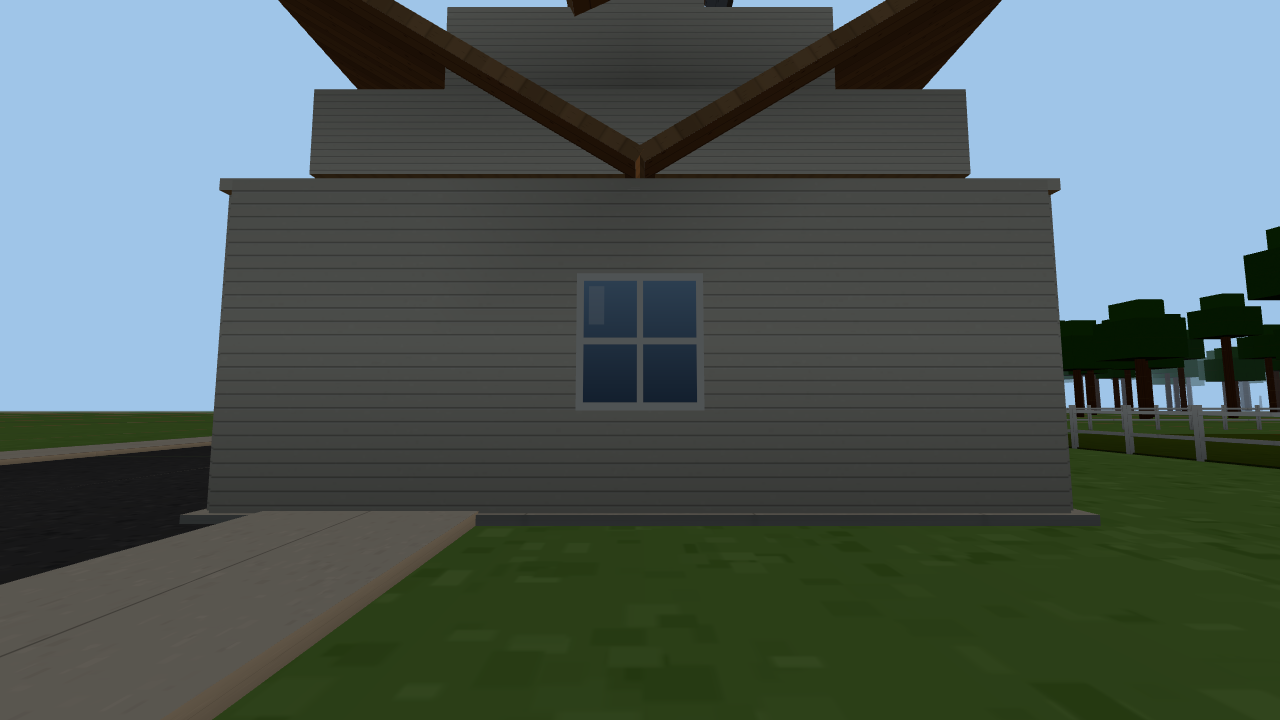
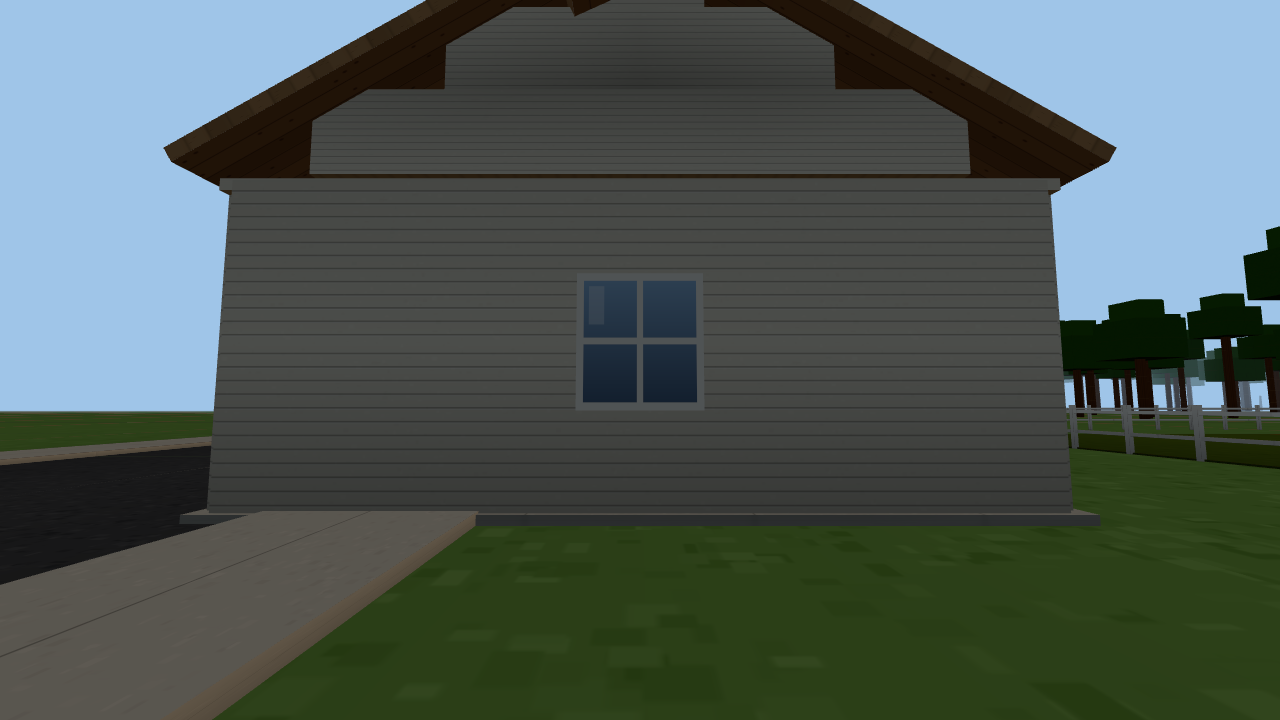
fix: pitch gable roof slabs toward the ridge, not away from it

Changed region(s): [[0.125, 0.0, 0.875, 0.275]]

diff --git a/src/builders.ts b/src/builders.ts
@@ -218,7 +218,7 @@ export function addHouseShell(
       name: `${name}:roof${s < 0 ? 'N' : 'S'}`,
       centre: [cx, B + H + 0.12 + rise / 2, cz + (s * run) / 2],
       size: [spec.width + 0.8, 0.16, slabLen],
-      rotation: [-s * pitch, 0, 0],
+      rotation: [s * pitch, 0, 0],
       tiles: { sides: 'planks', top: 'shingles', bottom: 'planks' },
       surface: 'wood',
       uvScale: 1.5,
